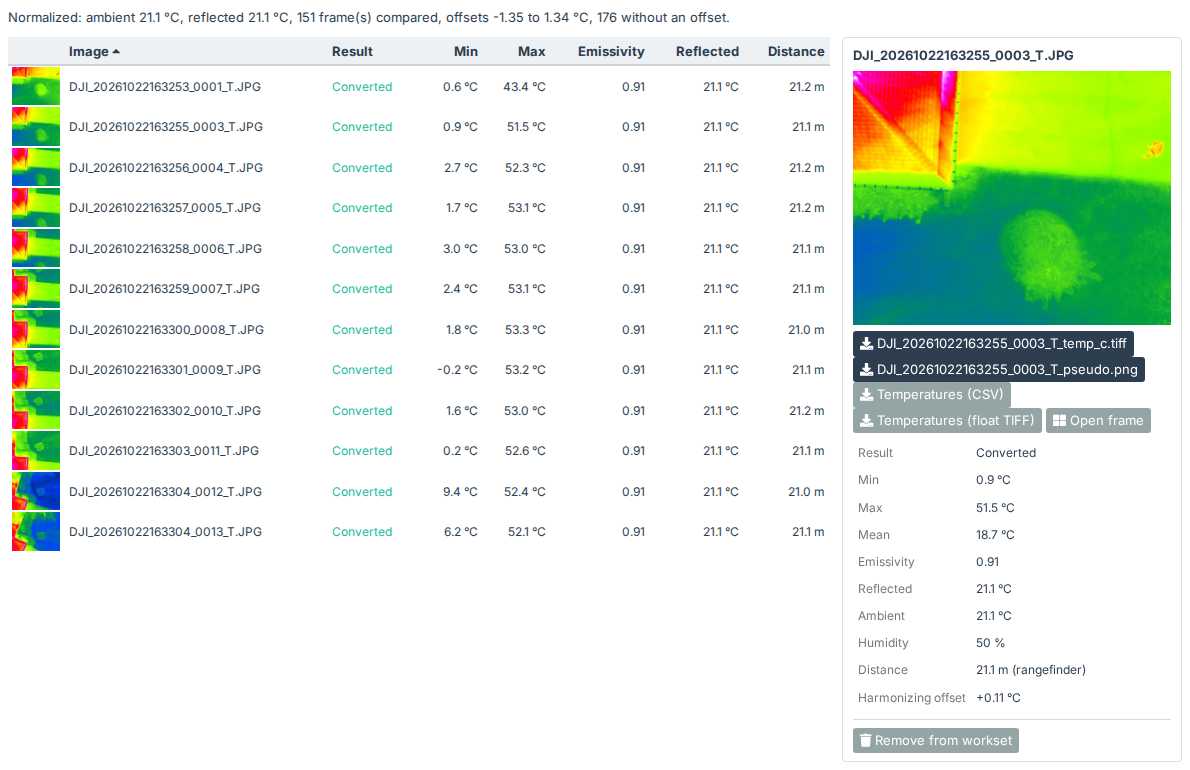
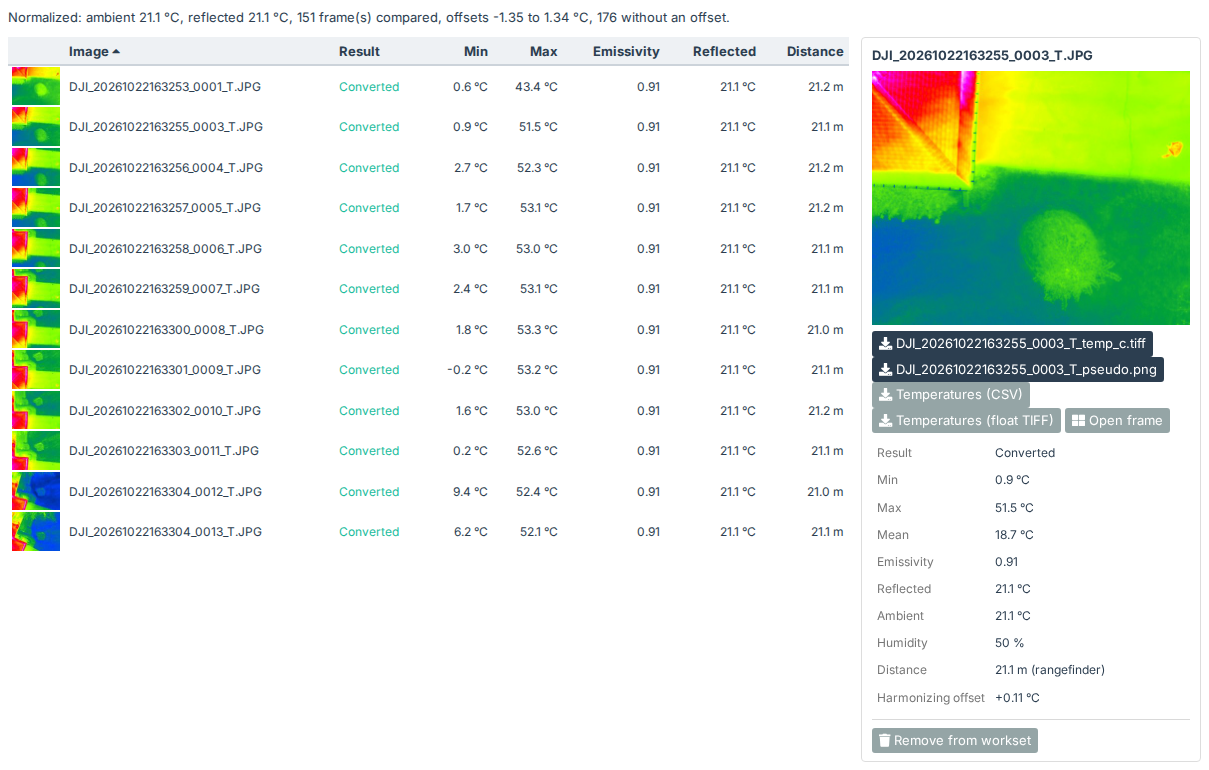
Dataset Files tab: the Notes column out, the page wider, so the pane hides no column
The pane already shows a file's problems, warnings and reason; the dataset page
grows to 1600px on wide windows. Removing files from a dataset planned.

diff --git a/dji-thermal/public/dataset.js b/dji-thermal/public/dataset.js
@@ -185,27 +185,20 @@
     // ready conversion's frame page) makes thermal frames' names links to their frame; view.thumbs (the thumbnail URL
     // without the file) adds a small picture of each image.
     function filesTableHtml(a, view) {
-        var flags = flagsByFile(a.findings);
         var rows = fileRows(a, view);
         var selected = view.selected || [];
         var html = '<div class="ta-table-scroll"><table class="table table-condensed ta-files"><thead><tr>' + (view.thumbs ? "<th></th>" : "") + FILE_COLUMNS.map(function (c) {
             var arrow = (view.sort || "path") === c.key ? ' <i class="fa fa-caret-' + (view.desc ? "down" : "up") + '"></i>' : "";
             return '<th data-sort="' + c.key + '"' + (c.title ? ' title="' + esc(c.title) + '"' : "") + ">" + esc(c.label) + arrow + "</th>";
-        }).join("") + "<th>Notes</th></tr></thead><tbody>";
+        }).join("") + "</tr></thead><tbody>";
         html += rows.map(function (r) {
-            var notes = (flags[r.path] || []).map(function (f) {
-                return '<span class="label label-' + ({error: "danger", warning: "warning"}[f.severity] || "default") +
-                    '" title="' + esc(f.message) + '">' + esc(f.code) + "</span>";
-            });
-            if (r.kind !== "thermal" && r.reason) notes.push('<span class="text-muted">' + esc(r.reason) + "</span>");
-            (r.warnings || []).forEach(function (w) { notes.push('<span class="text-warning">' + esc(w) + "</span>"); });
             var href = view.frames && r.kind === "thermal" ? view.frames + "?frame=" + encodeURIComponent(r.path) : null;
             var thumb = view.thumbs ? '<td class="ta-thumb">' + (core.isImage({name: r.path}) ?
                 '<img loading="lazy" alt="" src="' + esc(view.thumbs + encodeURIComponent(r.path)) + '">' : "") + "</td>" : "";
             return '<tr class="ta-kind-' + esc(r.kind) + (selected.indexOf(r.path) >= 0 ? " ta-selected" : "") + '" data-path="' + esc(r.path) + '">' + thumb +
                 FILE_COLUMNS.map(function (c) {
                     return "<td>" + (href && c.key === "path" ? '<a href="' + esc(href) + '" title="Open the frame">' + cell(r, c) + "</a>" : cell(r, c)) + "</td>";
-                }).join("") + "<td>" + notes.join(" ") + "</td></tr>";
+                }).join("") + "</tr>";
         }).join("");
         return {html: html + "</tbody></table></div>", count: rows.length};
     }

diff --git a/dji-thermal/public/__tests__/analyzer.test.js b/dji-thermal/public/__tests__/analyzer.test.js
@@ -757,12 +757,15 @@ describe("a dataset's page", () => {
         expect(dataset.duration("2026-10-22 16:32:53", "2026-10-22 16:32:53")).toBe("");
     });
 
-    it("lists the files sorted, with the problems that name them, and filters them", () => {
+    it("lists the files sorted, the problems that name them in the detail pane, not a column, and filters them", () => {
         let html = dataset.filesHtml(ANALYSIS, {sort: "tmax", desc: true});
         expect(html.indexOf("thermal/b_T.JPG")).toBeLessThan(html.indexOf("thermal/a_T.JPG"));
         expect(html).toContain("5.0 m / 21.4 m");
-        expect(html).toContain('title="1 image with an unusual &lt;maximum&gt;">temperature_max_outlier');
-        expect(html).toContain("not an R-JPEG");
+        expect(html).not.toContain("<th>Notes</th>");
+        expect(html).not.toContain("temperature_max_outlier");
+        const urls = {files: "/f?file=", picture: "/t"};
+        expect(dataset.detailHtml(ANALYSIS, ["thermal/b_T.JPG"], false, urls)).toContain("<th>temperature_max_outlier</th><td>1 image with an unusual &lt;maximum&gt;</td>");
+        expect(dataset.detailHtml(ANALYSIS, ["rgb/a_V.JPG"], false, urls)).toContain("not an R-JPEG");
 
         html = dataset.filesHtml(ANALYSIS, {show: "thermal"});
         expect(html).not.toContain("rgb/a_V.JPG");

diff --git a/dji-thermal/public/analyzer.css b/dji-thermal/public/analyzer.css
@@ -1,4 +1,6 @@
 .ta-page{ max-width: 1200px; }
+/* A dataset's page uses more of a wide window, for its tables beside their detail panes */
+#ta-dataset.ta-page{ max-width: 1600px; }
 .ta-page [hidden]{ display: none !important; }
 .ta-page .ta-header{ display: flex; align-items: flex-start; justify-content: space-between; gap: 12px; flex-wrap: wrap; margin-bottom: 12px; }
 .ta-page .ta-header h3{ margin: 0; }

diff --git a/dev/screenshots.js b/dev/screenshots.js
@@ -141,6 +141,8 @@ const SHOTS = {
         return first;
     },
     "dataset-files": async (p, env) => {
+        // Wide enough for all its columns beside the detail pane
+        await p.setViewportSize({width: 1600, height: 900});
         await openDataset(p, env);
         await p.click('#ta-tabs a[data-tab="files"]');
         await p.locator(".ta-files tbody tr.ta-kind-thermal").nth(2).click();

diff --git a/upcoming-changes.md b/upcoming-changes.md
@@ -5,6 +5,22 @@
 **Up next**
 - **The user's testing and polishing** (2026-10-30): bugs and polish they report go here, each fixed on its own
   branch. Publishing 1.0.0 waits for it.
+  - Next: **removing files from a dataset** (the user, 2026-11-02: "For the Files view under dataset we should add the
+    ability to remove files as well, just like is done for the worksets view."). Decided (the user, 2026-11-02):
+    **Remove from dataset** in the dataset page's Files tab detail pane (one file, or those selected), for those who
+    can change the project, with a confirmation; the files deleted from the dataset's images (and their cached
+    thumbnails), their rows gone from the table at once; each workset that converted a removed frame has it removed
+    as Remove from workset does (outputs and saved measurements deleted, counted as removed, mosaics marked out of
+    date; tasks made before keep their images), refused if it would leave a workset without a converted frame, and
+    while the dataset is analyzing or a workset converting or building mosaics; the analysis kept but marked out of
+    date (Analyze again prompted), as after Add images.
+  - Done: **the dataset Files tab's detail pane hid its last columns** (the user, 2026-11-02: "the detail pane on the
+    right blocks the far right column. Either remove the column or move the viewer over to the right more"),
+    `dataset-files-layout`. Decided (the user, 2026-11-02): both. The Notes column is gone (the pane already shows a
+    file's problems, warnings and reason), and the dataset page is up to 1600px wide (`#ta-dataset.ta-page`), so from
+    a window of about 1500px the whole table fits beside the pane; narrower, it still scrolls sideways. `dataset.js`,
+    `analyzer.css`. README, `quickstart-analyzer.md`, `dataset-files.png` (now shot at 1600px) and `workset-files.png`
+    retaken. Jest.
   - Done: **a workset's Mosaics as a table with previews** (the user, 2026-11-02: "Instead of a set of links for
     Mosaics, can we give them a similar preview and interactive table format like we do for images under the Files
     table?"), `workset-mosaics-table`. Decided (the user, 2026-11-02): one row per mosaic (As converted, Harmonized),

diff --git a/README.md b/README.md
@@ -124,7 +124,7 @@ photos to temperatures on a map, each done (✓) or a link to where it is done: 
 Then:
 
 - **Files**: every file with its capture time, height, gimbal pitch, temperatures, distance (recorded and the
-  rangefinder's) and emissivity, and the problems that name it; filtered by name, by kind or to those with
+  rangefinder's) and emissivity (the problems that name it in its detail pane); filtered by name, by kind or to those with
   problems, sorted by any column, with thumbnails if you like (in your preferred DJI palette, if you chose one).
   Click a file to open a detail pane beside the table: its picture (a thermal frame drawn from its temperatures in
   your preferred DJI palette, else in the one it was shot in) and everything the analysis read from it (camera, position, gimbal, temperatures, measurement

diff --git a/docs/quickstart-analyzer.md b/docs/quickstart-analyzer.md
@@ -48,7 +48,7 @@ emissivity. You can filter it, sort it by any column and show thumbnails.
 ![The Files tab, with a file's detail pane](images/dataset-files.png)
 
 Click a file to open its detail pane beside the table. It shows the picture (a thermal frame drawn from its
-temperatures) and everything the analysis read from the file. Click the picture to see it full size:
+temperatures), everything the analysis read from the file, and the problems that name it. Click the picture to see it full size:
 
 ![The picture viewer](images/picture-viewer.png)
 
